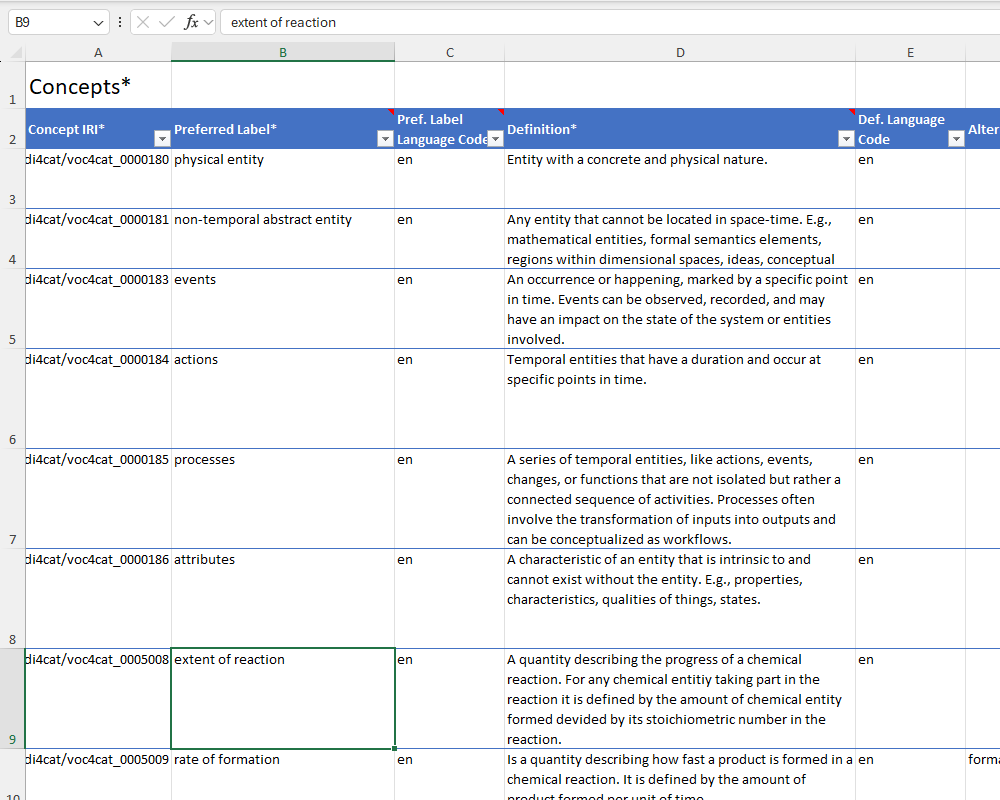
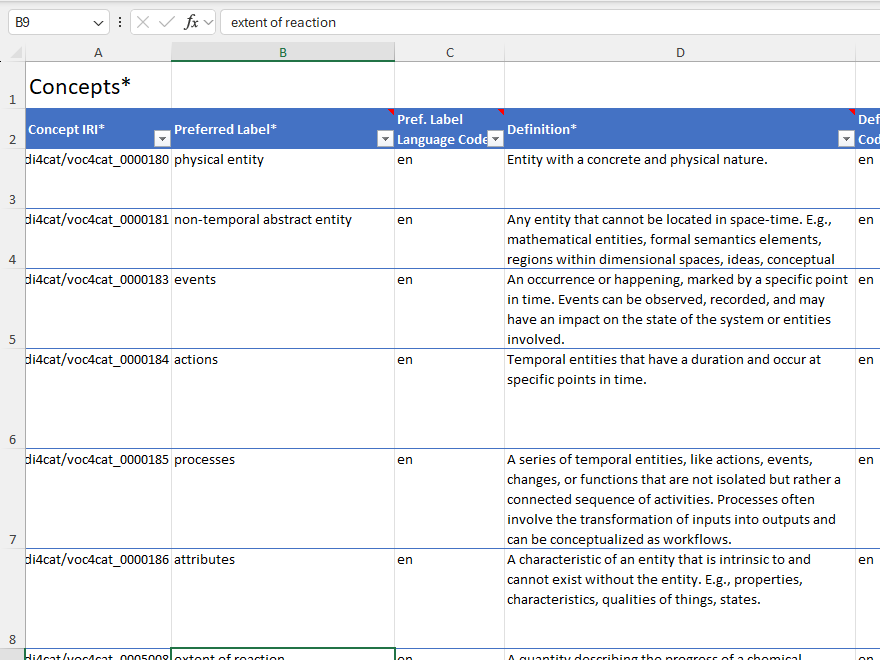
Add RDF-links to overview & various docs improvements

diff --git a/docs/conf.py b/docs/conf.py
@@ -48,9 +48,9 @@ autosectionlabel_prefix_document = True
 # https://myst-parser.readthedocs.io/en/latest/configuration.html
 
 myst_enable_extensions = [
-    "colon_fence", # enable the colon_fence ::: syntax for admonitions
-    "deflist",     # enable definistion list syntax
-    "html_image",  # convert HTML <img> elements to sphinx image nodes
+    "attrs_inline", # enable {}-attribute syntax like ![](img/fish.png){w=100px align=center}
+    "colon_fence",  # enable the colon_fence ::: syntax for admonitions
+    "html_image",   # convert HTML <img> elements to sphinx image nodes
 ]
 
 # -- Options for Furo theme ---------------------------------------------------
@@ -88,5 +88,5 @@ html_theme_options = {
         },
     ],
     # HTML to be show in a announcement banner at the top of the page
-    "announcement": "🛠 <strong>Work-in-progress!</strong> This site will soon replace the GitHub project page as the main access point to Voc4Cat. 🛠",
+    "announcement": "<strong>News 2024-10-12</strong>: Voc4Cat finally got a nice home page! - <small>Some sections are still work in progress. 🛠 </small>",
 }

diff --git a/docs/index.md b/docs/index.md
@@ -11,18 +11,13 @@ which reflects the community's shared understanding of the concept's meaning.
 By using the identifiers provided by Voc4Cat to annotate data, rather than just words and symbols, ambiguity as to what is meant is avoided.
 Producing Voc4Cat-annotated data contributes to realising the vision of machine-actionability described as the ultimate goal of the [FAIR principles](https://doi.org/10.1038/sdata.2016.18).
 
-Voc4Cat conforms to the [SKOS](https://www.w3.org/TR/skos-reference/) standard.
-The vocabulary is available in rdf/turtle or rdf/xml format to facilitate integration with other tools and services.
-Voc4Cat is also available in xlsx (Excel) format, making it easy for researchers to submit additions and updates.
-
 ::::{grid} 3
 :::{grid-item-card}
 :link: https://w3id.org/nfdi4cat/voc4cat/dev
 **Documentation**, preview
 ^^^
 
-```{image} _static/voc4cat-pylode-docs.webp
-:height: 180
+```{image} _static/voc4cat-pylode-docs.png
 :align: center
 :alt: screenshot of pylode generated vocabulary documentation
 ```
@@ -37,8 +32,7 @@ matches XLSX file
 **Vocabulary**, XLSX file
 ^^^
 
-```{image} _static/voc4cat-concept-sheet.webp
-:height: 180
+```{image} _static/voc4cat-concept-sheet.png
 :align: center
 :alt: screenshot concepts in xlsx worksheet
 ```
@@ -53,8 +47,7 @@ download to contribute
 **Documentation**, released
 ^^^
 
-```{image} _static/voc4cat-pylode-docs.webp
-:height: 180
+```{image} _static/voc4cat-pylode-docs.png
 :align: center
 :alt: screenshot of pylode generated vocabulary documentation
 ```
@@ -65,17 +58,26 @@ v2024-04-08
 :::
 ::::
 
-By default the HTML documentation is served from the URLs below.
-Corresponding RDF-files (turtle or xml) can be requested from the same URLs using content negotiation.
+Voc4Cat conforms to the [SKOS](https://www.w3.org/TR/skos-reference/) standard.
+The vocabulary is available in rdf/turtle or rdf/xml format to facilitate integration with other tools and services.
+Voc4Cat is also available in xlsx (Excel) format, making it easy for researchers to submit additions and updates.
 
-| Version                       | Permanent URL                               |
-| ----------------------------- | ------------------------------------------- |
-| Most current (in development) | ```https://w3id.org/nfdi4cat/voc4cat/dev``` |
-| Latest release                | ```https://w3id.org/nfdi4cat/voc4cat```     |
+By default the HTML documentation is served from the permanent URLs below.
+Corresponding RDF-files (turtle or xml) can be requested from the same URLs using content negotiation.
+The direct links in the table are just given for convenience; they are not permanent.
+
+:::{role} raw-html(raw)
+:format: html
+:::
+
+| Version        | Permanent URL                               | Direct RDF download links                 |
+| -------------- | ------------------------------------------- | ----------------------------------------- |
+| Most current   | ```https://w3id.org/nfdi4cat/voc4cat/dev``` | {raw-html}`<img src="_images/W3C-SKOS-blue.svg" alt="W3C SKOS logo" style="vertical-align: middle" width=90px>` [Turtle](https://nfdi4cat.github.io/voc4cat/dev/voc4cat.ttl) - [RDF/XML](https://nfdi4cat.github.io/voc4cat/dev/voc4cat.xml) |
+| Latest release | ```https://w3id.org/nfdi4cat/voc4cat```     | {raw-html}`<img src="_images/W3C-SKOS-blue.svg" alt="W3C SKOS logo" style="vertical-align: middle" width=90px>` [Turtle](https://nfdi4cat.github.io/voc4cat/latest/voc4cat.ttl) - [RDF/XML](https://nfdi4cat.github.io/voc4cat/latest/voc4cat.xml) |
 
 ```{tip}
-:class: dropdown
-:class: open
+:class: dropdown, open
+
 **`voc4cat`** is the preferred and [registered](https://bioregistry.io/registry/voc4cat) **prefix** for the Voc4Cat vocabulary.
 
 With the prefix, long URIs can be shortened to **compact URI**s (also called *CURIES*). These short notations are typically  preferred in linked-data applications.
@@ -83,7 +85,7 @@ With the prefix, long URIs can be shortened to **compact URI**s (also called *CU
 For example, the compact URI of `https://w3id.org/nfdi4cat/voc4cat_0005001` is `voc4cat:0005001`.
 ```
 
-## Older releases
+## All releases
 
 - **v2024-04-08**: [Documentation (HTML)](https://w3id.org/nfdi4cat/voc4cat/v2024-04-08), permanent url `https://w3id.org/nfdi4cat/voc4cat/v2024-04-08`
 - **v2023-09-03**: [Documentation (HTML)](https://w3id.org/nfdi4cat/voc4cat/v2023-09-03"), permanent url `https://w3id.org/nfdi4cat/voc4cat/v2023-09-03`

diff --git a/README.md b/README.md
@@ -41,7 +41,8 @@ We have configured [content negotiation](https://en.wikipedia.org/wiki/Content_n
 So you can get the human readable HTML documentation but also the machine-readable turtle file of the vocabulary from the same URL.
 The IRI-design is described in detail in [iri-design.md](https://github.com/nfdi4cat/voc4cat/blob/main/iri-design.md).
 
-To get the turtle file you may use tools like [curl](https://curl.se/) or [httpie](https://httpie.io/docs/cli) that allow to specify the content type. For example, to download the turtle file of the latest released version:
+To get the turtle file you may use tools like [curl](https://curl.se/) or [httpie](https://httpie.io/docs/cli) that allow to specify the content type.
+For example, to download the turtle file of the latest released version:
 
 ```bash
 # with httpie
@@ -74,7 +75,8 @@ To discuss about the **voc4cat**-vocabulary maintained here, create an [issue](h
 To contribute new concepts or collections or change existing ones, you may either submit your contributions as Excel/xlsx-file or (as an expert) as new/changed turtle file.
 
 > Small contributions like adding a single concept are as valuable as bigger ones.
-> In fact if you plan a bigger change (50+ concepts), consider splitting up the additions/changes into smaller chunks with max. ~20 changes to make the review process not too hard for the reviewers and you as author.
+> In fact if you plan a bigger change (50+ concepts), consider splitting up the additions/changes into smaller chunks
+> with max. ~20 changes to make the review process not too hard for the reviewers and you as author.
 
 Here are the steps for submitting updates via Excel/xlsx.
 
@@ -86,7 +88,8 @@ Here are the steps for submitting updates via Excel/xlsx.
   - Add the xlsx file to the feature branch into the folder `inbox-excel-vocabs`
   - The name of the file must match the vocabulary that you want to update. So do not change the filename, but keep `voc4cat.xlsx`.
 - Create a pull request with the updated Excel-file in this repository.
-  - Please describe your changes and the motivation for the changes in the pull request note or link to an issue with this information. This will help reviewers to understand the proposed change and decide about it.
+  - Please describe your changes and the motivation for the changes in the pull request note or link to an issue with this information.
+    This will help reviewers to understand the proposed change and decide about it.
 - Your pull request will be processed automatically by a CI/CD pipeline that typically finishes in less than a minute.
 - Review the artifacts/logs generated by the CI pipeline.
   - The [workflow artifact](https://docs.github.com/en/actions/managing-workflow-runs/downloading-workflow-artifacts) will contain an updated xlsx file that is recreated from the updated turtle-file.
@@ -111,7 +114,7 @@ To discuss about the tool that converts Excel to SKOS in GitHub-actions of this 
 
 ## Documentation for voc4cat maintainers
 
-We collect notes on some typical workflows for maintainers in the `docs`-folder, see [docs/README.txt](https://github.com/nfdi4cat/voc4cat/tree/main/docs/for_maintainers/README.md) for an overview.
+See section for maintainers in the [documentation](https://nfdi4cat.github.io/voc4cat).
 
 ## Contributors
 
@@ -132,7 +135,8 @@ All vocabularies in this repository are CC0-1.0 licensed, see [LICENSE](LICENSE)
 
 ### Voc4cat template
 
-The template itself is CC0-1.0 licensed, see [LICENSE](https://github.com/nfdi4cat/voc4cat-template/blob/main/LICENSE). Although there is no obligation, we nevertheless appreciate if our work is acknowledged in any derivative work.
+The template itself is CC0-1.0 licensed, see [LICENSE](https://github.com/nfdi4cat/voc4cat-template/blob/main/LICENSE).
+Although there is no obligation, we nevertheless appreciate if our work is acknowledged in any derivative work.
 
 ## Acknowledgement
 

diff --git a/docs/docs_usage/how-to-use.md b/docs/docs_usage/how-to-use.md
@@ -9,6 +9,7 @@
 * Use in linkml datamodels
 * Tips for using SKOS concepts in OWL ontologies
 * Short guide (jupyter notebook): using voc4cat/SKOS from Python with rdflib
+* Use Voc4Cat via terminology services provided by Base4NFDI
 
 What other topics would you like to read about here? Let us know by [creating an issue](https://github.com/nfdi4cat/voc4cat/issues/new?assignees=&labels=voc4cat+guidelines&projects=&template=improvement_guidelines.yaml&title=%F0%9F%93%9D+%3Ctitle%3E)!
 ```

diff --git a/docs/docs_maintenance/creating-docs-locally.md b/docs/docs_maintenance/creating-docs-locally.md
@@ -12,11 +12,10 @@ py -m venv .venv
 pip install -r docs\requirements.txt
 ```
 
-Navigate to the docs-directory and build the documentation:
+Build the documentation (option `-a` tells sphinx to rebuild all files, `--nitpicky` warns on missing references):
 
 ```bat
-cd docs
-make html
+sphinx-build -a --nitpicky docs docs/_build
 ```
 
 The documentation is created in `docs/_build` and can be previewed by opening the file `docs\_build\html\index.html` in a web browser.

diff --git a/docs/docs_usage/how-to-contribute.md b/docs/docs_usage/how-to-contribute.md
@@ -1,6 +1,6 @@
 # How to contribute to Voc4Cat?
 
 ```{todo}
-Move and merge documentation on contribution process from [readme](https://github.com/nfdi4cat/voc4cat/blob/main/README.md)
+Move and merge documentation on contribution process from [readme](https://github.com/nfdi4cat/voc4cat/blob/main/README.md#contributing-to-vocabularies)
 and {ref}`guidelines-v2.0 <docs_usage/published-guidelines-v2:5. contribution step-by-step guide>` here.
 ```
